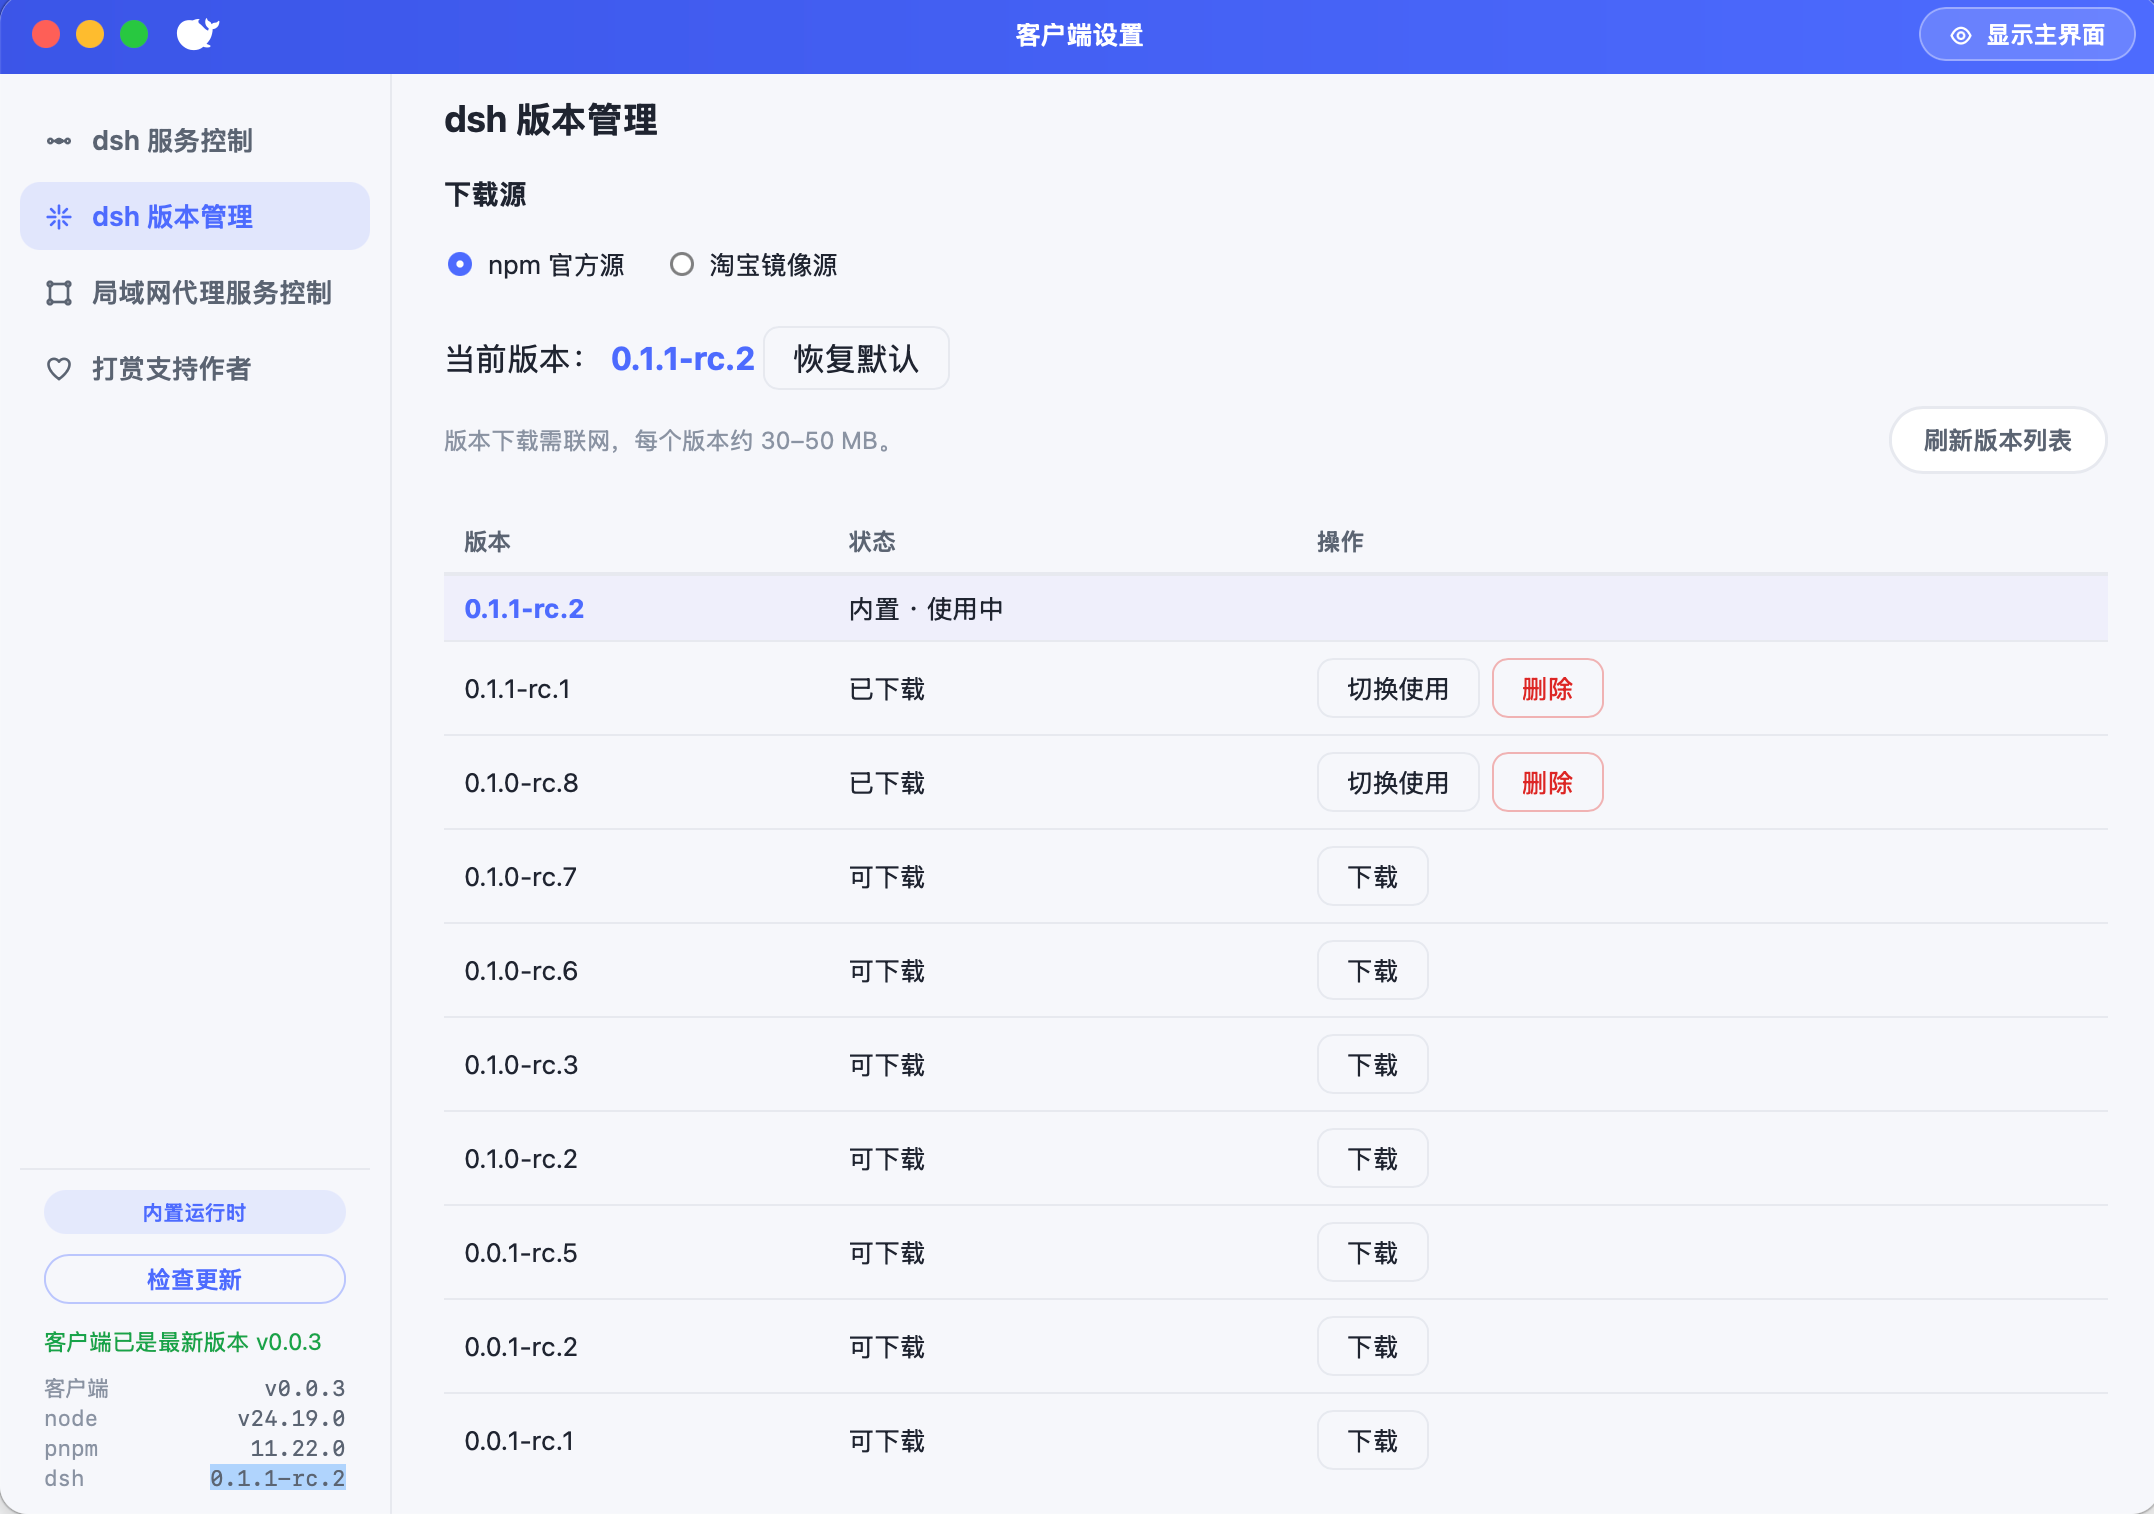
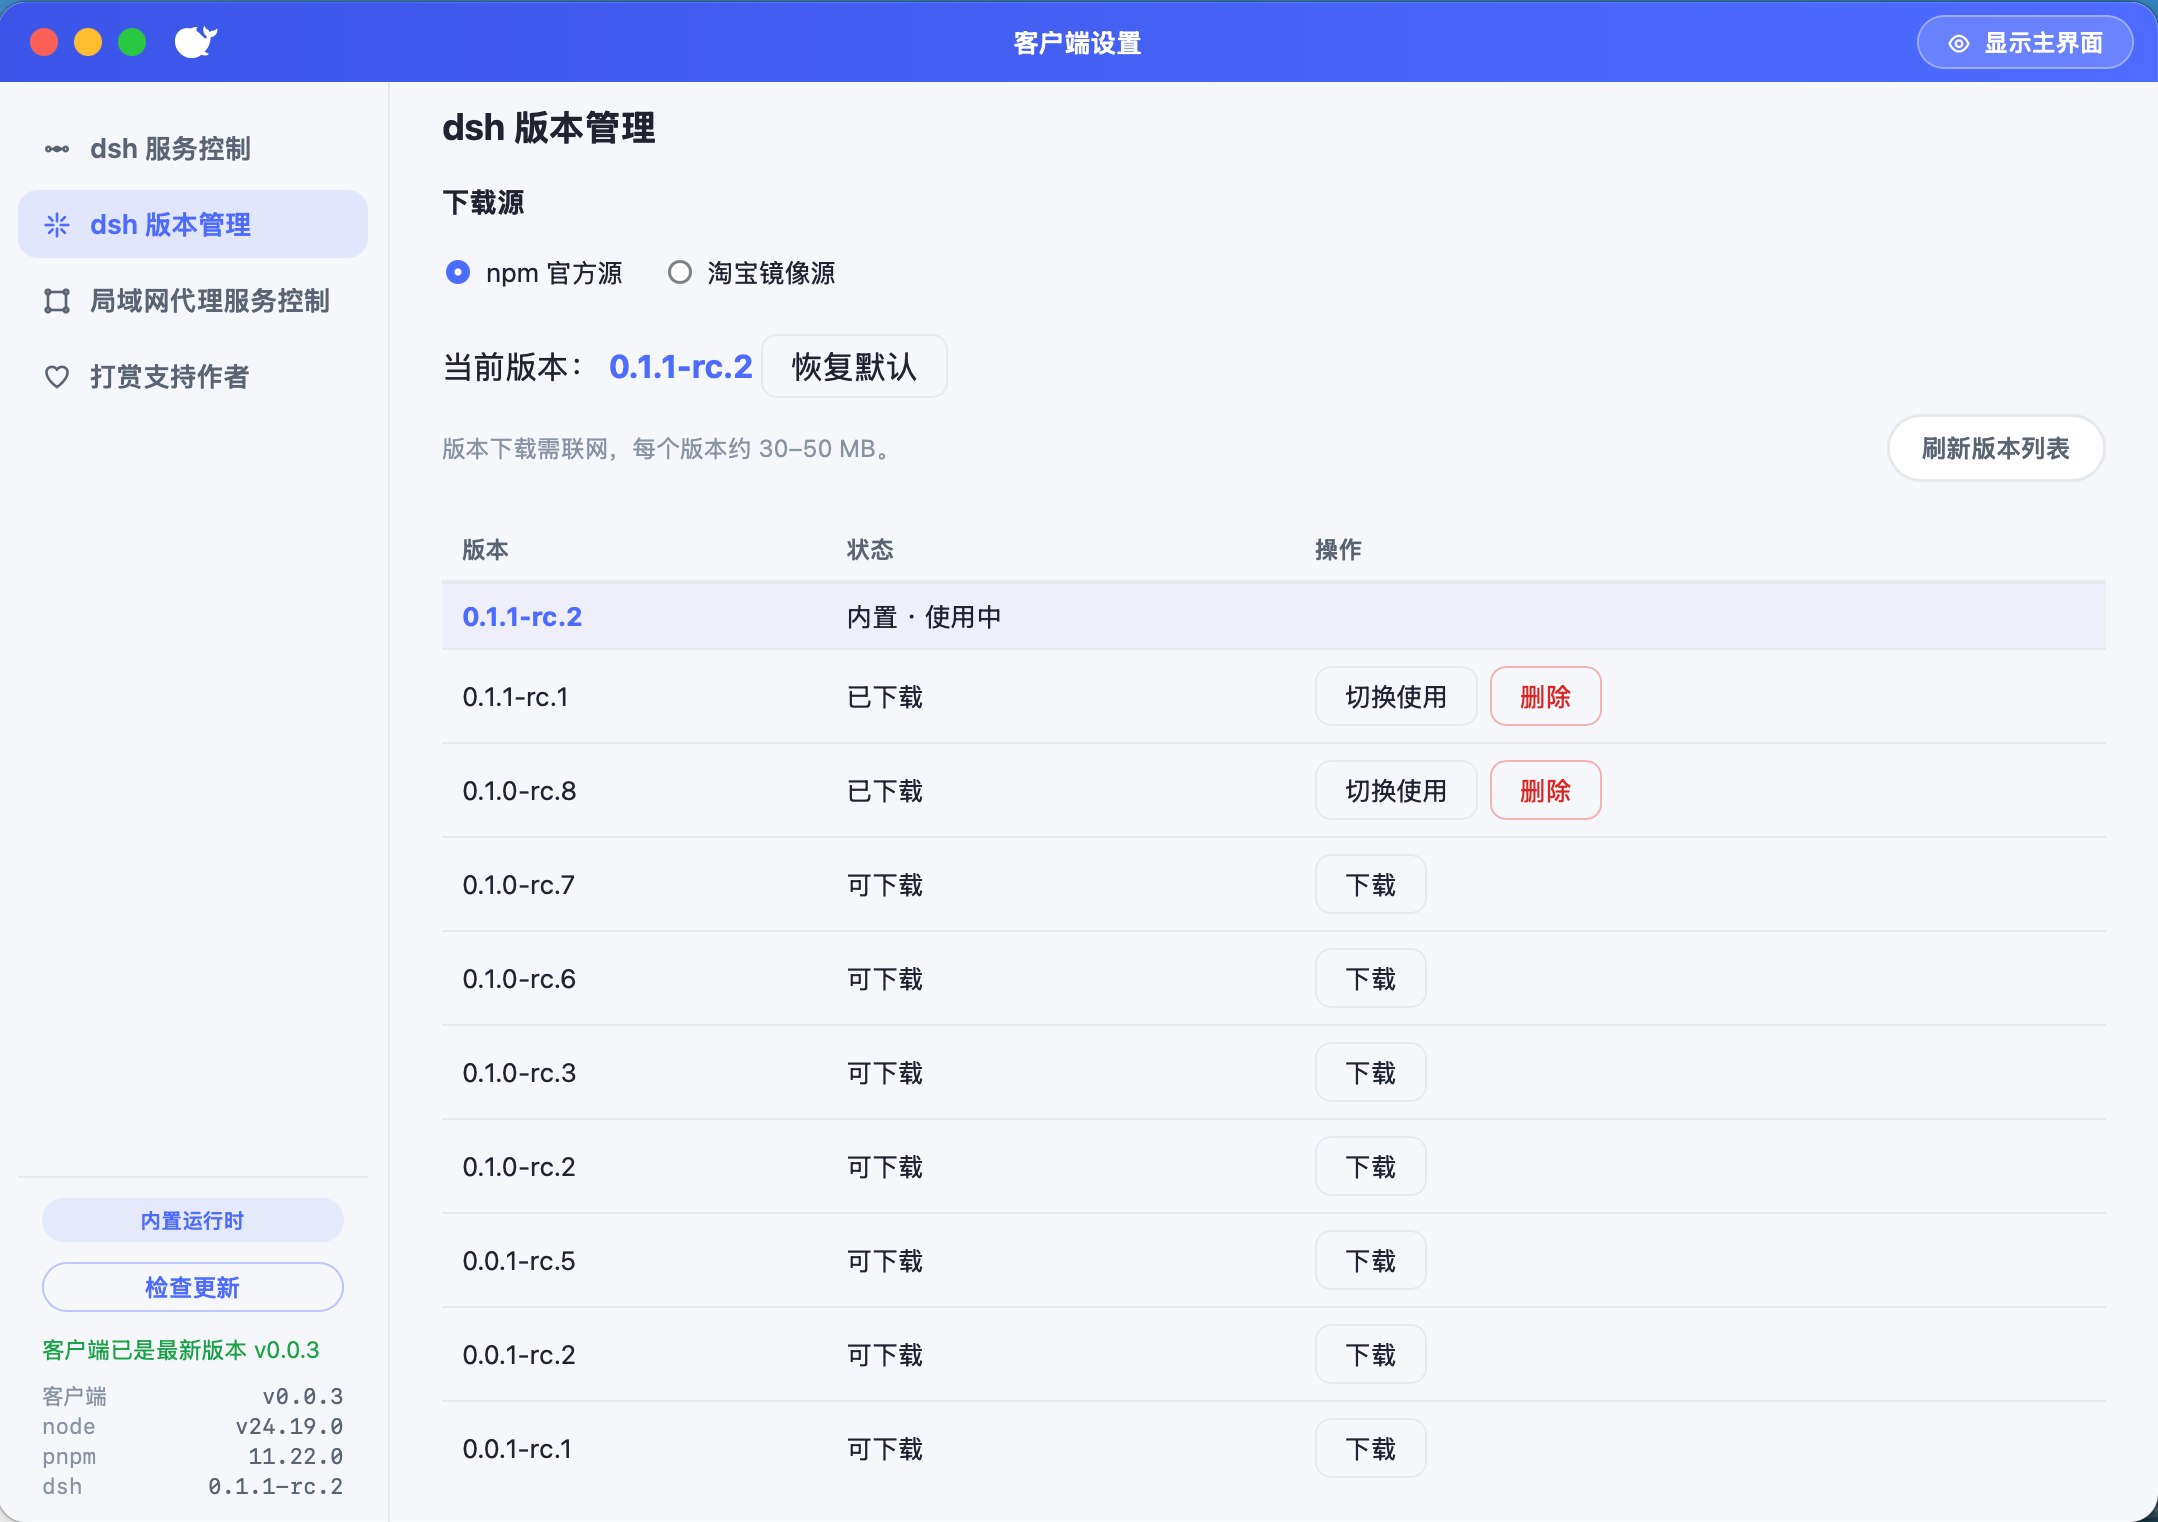
docs: 更新 README 截图，添加 dsh 版本管理

diff --git a/README.md b/README.md
@@ -15,6 +15,7 @@ A desktop shell that wraps the [DeepSeek Harness](https://github.com/deepseek-ai
 
 ![Main Window](images/main-window-en.png)
 ![DSH Service Control](images/dsh-server-en.png)
+![dsh Version Manager](images/dsh-version-manage-en.png)
 ![LAN Proxy Service Control](images/lan-proxy-en.png)
 
 ## Features
@@ -136,6 +137,7 @@ bga-dsh-client/
 ├── images/                       # README screenshots (zh & en sets)
 │   ├── main-window-zh.png / main-window-en.png   # main window
 │   ├── dsh-server-zh.png / dsh-server-en.png     # DSH service control
+│   ├── dsh-version-manage-zh.png / dsh-version-manage-en.png  # dsh version manager
 │   └── lan-proxy-zh.png / lan-proxy-en.png       # LAN proxy service control
 ├── scripts/
 │   ├── build-release.sh          # release build script (bundled / two modes)

diff --git a/README.zh-CN.md b/README.zh-CN.md
@@ -15,6 +15,7 @@
 
 ![主界面截图](images/main-window-zh.png)
 ![dsh 服务控制](images/dsh-server-zh.png)
+![dsh 版本管理](images/dsh-version-manage-zh.png)
 ![局域网代理服务控制](images/lan-proxy-zh.png)
 
 ## 功能介绍
@@ -136,6 +137,7 @@ bga-dsh-client/
 ├── images/                       # README 截图素材（中文/英文各一组）
 │   ├── main-window-zh.png / main-window-en.png   # 主界面
 │   ├── dsh-server-zh.png / dsh-server-en.png     # dsh 服务控制
+│   ├── dsh-version-manage-zh.png / dsh-version-manage-en.png  # dsh 版本管理
 │   └── lan-proxy-zh.png / lan-proxy-en.png       # 局域网代理服务控制
 ├── scripts/
 │   ├── build-release.sh          # 发布构建脚本（bundled / two 模式）
